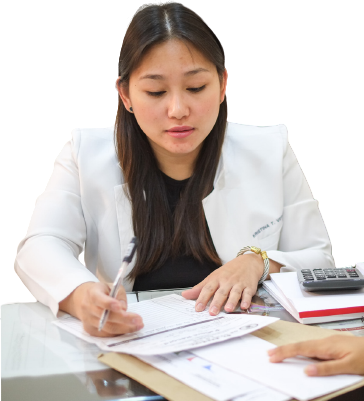
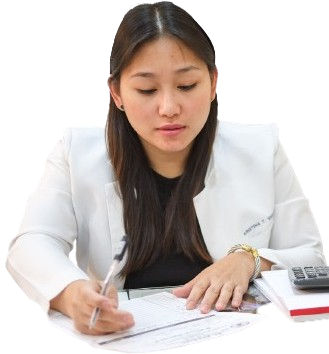
Edited Home page

diff --git a/src/views/home/HomeView.vue b/src/views/home/HomeView.vue
@@ -1,37 +1,73 @@
 <template>
 
     <q-page class="">
+        <div class="bg-white">
         <!-- Hero Section -->
-        <div class="row bg-teal-4">
+        <div class="row bg-primary hero-section relative overflow-auto" style="height: 450px; ">
             <!-- Maxilife Multispecialty Clinic and Diagnostic Center -->
-            <div class="col text-white">
+           <svg xmlns="http://www.w3.org/2000/svg" class="absolute -bottom-0 " viewBox="0 0 1440 320"><path fill="white" fill-opacity="1" d="M0,320L80,309.3C160,299,320,277,480,266.7C640,256,800,256,960,218.7C1120,181,1280,107,1360,69.3L1440,32L1440,320L1360,320C1280,320,1120,320,960,320C800,320,640,320,480,320C320,320,160,320,80,320L0,320Z"></path></svg>
+           
+            <div class="col-12  col-lg-10 text-white relative ">
                 <div style="text-align:center; max-width: 650px; margin-right: auto; margin-left: auto;" class="q-pt-md  ">
                     <div class="text-h4 text-bold  q-mt-xl q-pt-xl q-pb-lg" >Let Maxilife Multispecialty Clinic 
                         <hr/>Care with your Health</div>
                     <div class="text-h6 q-px-lg q-pb-sm"> Book your appointment from the comfort 
                         of your own home and receive quality care from our expert team</div>
-                    <q-btn align="around" class="btn-fixed-width q-mb-md" to="appointment" color="primary" label="Set An Appointment" icon="calendar_today" outline />
-                   
+                      <q-btn align="around" class="btn-fixed-width q-mb-md" to="appointment" color="secondary" label="Set An Appointment" icon="calendar_today" outline />
+                       
+                      <div class="col gt-sm opacity-85 absolute  -bottom-0 -right-20">
+                        <q-img src="../../assets/img/images/doctor2.png" 
+                          style="width:420px; height: 450px; ;" class="row justify-center shadow-b-xl"></q-img>
+                      </div>
                 </div>
             </div>
-            <div class="col gt-sm q-px-sm q-py-xl q-mx-xl  opacity-85">
-                <q-img src="../../assets/img/images/doctor2.png" 
-                style="max-height:650px; margin-left:auto; margin-right: auto; display: block; border-radius: 10px; width:500px; height: 550px; "></q-img>
-                
-            </div>
-
+            <div class="col col-lg-2 gt-sm"></div>
+           
+        
         </div>
-
+ 
 <!--         
       //Second Row -->
 
-        <div class="">
-            <div class="flex justify-center">What We Can Offer</div>
+           <div class="row q-pa-lg q-mx-xl">
+            <div class="col-1 gt-sm"></div>
+             <div class="col-12 col-md-12 col-lg-7 q-px-xl">
+                <div class="flex justify-start text-secondary text-h6">What We Can Offer</div>
+                <div class="row">
+                    <div class="col q-py-lg ">
+                          <div>
+                            <img src="@/assets/img/images/facility1.jpg" style="height: 180px; border-radius: 20px;" />
+                           </div>
+                            <div class="text-h7 q-my-sm text-gray-800 text-bold">
+                                Well cleaned and neat facility
+                            </div>                                                                              
+                    </div>
 
-            <Swiper />
+                    <div class="col q-py-lg q-px-sm">  
+                        <div>                     
+                            <img src="@/assets/img/images/service1.jpg" style="height: 180px; border-radius: 20px;" />      </div>                     
+                            <div class="text-h7 q-my-sm text-gray-800 text-bold">
+                                Affordable and Quality Services
+                            </div>
+                   </div>
 
-        </div>
+                    <div class="col q-py-lg ">              
+                            <img src="@/assets/img/images/maxilife-staff.jpg"  style="height: 180px; border-radius: 20px;" />                       
+                            <div class="text-h7 q-my-sm text-gray-800 text-bold">
+                                Best healthcare providers
+                            </div>                                         
+                    </div>
+                </div>
+             </div>
+             <div class="col-12 col-md-12 col-lg-4"></div>
+           </div>  
 
+
+            
+            </div>
+             <div class="flex justify-center text-primary">What We Can Offer</div>
+
+              <Swiper />
 
         <!-- third section -->
         <div class="row justify-center text-h6 q-py-xl q-pt-md q-my-xl ">Book Your Appointment </div>
@@ -84,7 +120,12 @@ export default {
 </script>
 
 
-<style scoped>
+<style >
+
+/* .hero-section{
+    z-index:5;
+    background: linear-gradient(-60deg, rgb(253, 252, 252),rgb(247, 249, 247),rgb(149, 149, 151),yellow);
+} */
 
 
 </style>

diff --git a/src/components/DoctorCard.vue b/src/components/DoctorCard.vue
@@ -5,7 +5,7 @@
         <img src="../assets/img/images/doctor1.png" style="width:300px; height: 250px; ">
 
       <q-card-section class="bg-primary text-white">
-        <div class="text-h7">Dr. Emerson DC. Garcia</div>
+        <div class="text-h7 text-gray-700">Dr. Emerson DC. Garcia</div>
         <div class="text-subtitle2">Urosurgeon</div>
       </q-card-section>   
     </q-card>
@@ -16,7 +16,7 @@
         <img src="../assets/img/images/doctor3.png" style="width:300px; height: 250px;">
 
       <q-card-section class="bg-primary text-white">
-        <div class="text-h7">Dra. Kristina T. Vergara-Garcia</div>
+        <div class="text-h7 text-gray-700">Dra. Kristina T. Vergara-Garcia</div>
         <div class="text-subtitle2">Obstetrician/Gynecologist</div>
       </q-card-section>   
     </q-card>

diff --git a/src/views/AboutView.vue b/src/views/AboutView.vue
@@ -16,7 +16,7 @@
 
 
 <!-- History -->
-<div class="row q-mb-md q-pa-xl bg-yellow-1 text-gray-700">
+<div class="row q-mb-md q-pa-xl bg-primary text-gray-700">
   
 
   <div class="col q-py-md">
@@ -51,8 +51,8 @@
 
 <!-- Doctors -->
 
-<div class="row justify-center  q-mt-md q-pa-md bg-yellow-1 text-gray-700 text-h4">Doctors</div>
-<div class="row q-px-md bg-yellow-1 text-gray-700 justify-center items-center">
+<div class="row justify-center  q-mt-md q-pa-md  text-gray-700 text-h4 q-mx-xl ">Doctors</div>
+<div class="row q-px-md text-gray-700 justify-center items-center q-mx-xl">
    <DoctorCard />
 
 </div>

diff --git a/src/views/MainView.vue b/src/views/MainView.vue
@@ -1,6 +1,6 @@
 <template>
   <q-layout view="hHh LpR fff">
-    <q-header reveal  elevated class="bg-primary text-white" height-hint="98">
+    <q-header reveal   class="bg-primary text-white" height-hint="98">
       <q-toolbar>
         <q-btn dense flat round icon="menu" @click="toggleLeftDrawer" />
 

diff --git a/src/styles/quasar.variables.sass b/src/styles/quasar.variables.sass
@@ -1,7 +1,7 @@
 // It's highly recommended to change the default colors
 // to match your app's branding.
 
-$primary   : #8c6701
+$primary   : #B2BEB5
 $secondary : #26A69A
 $accent    : #9C27B0
 $surface   : #202020
